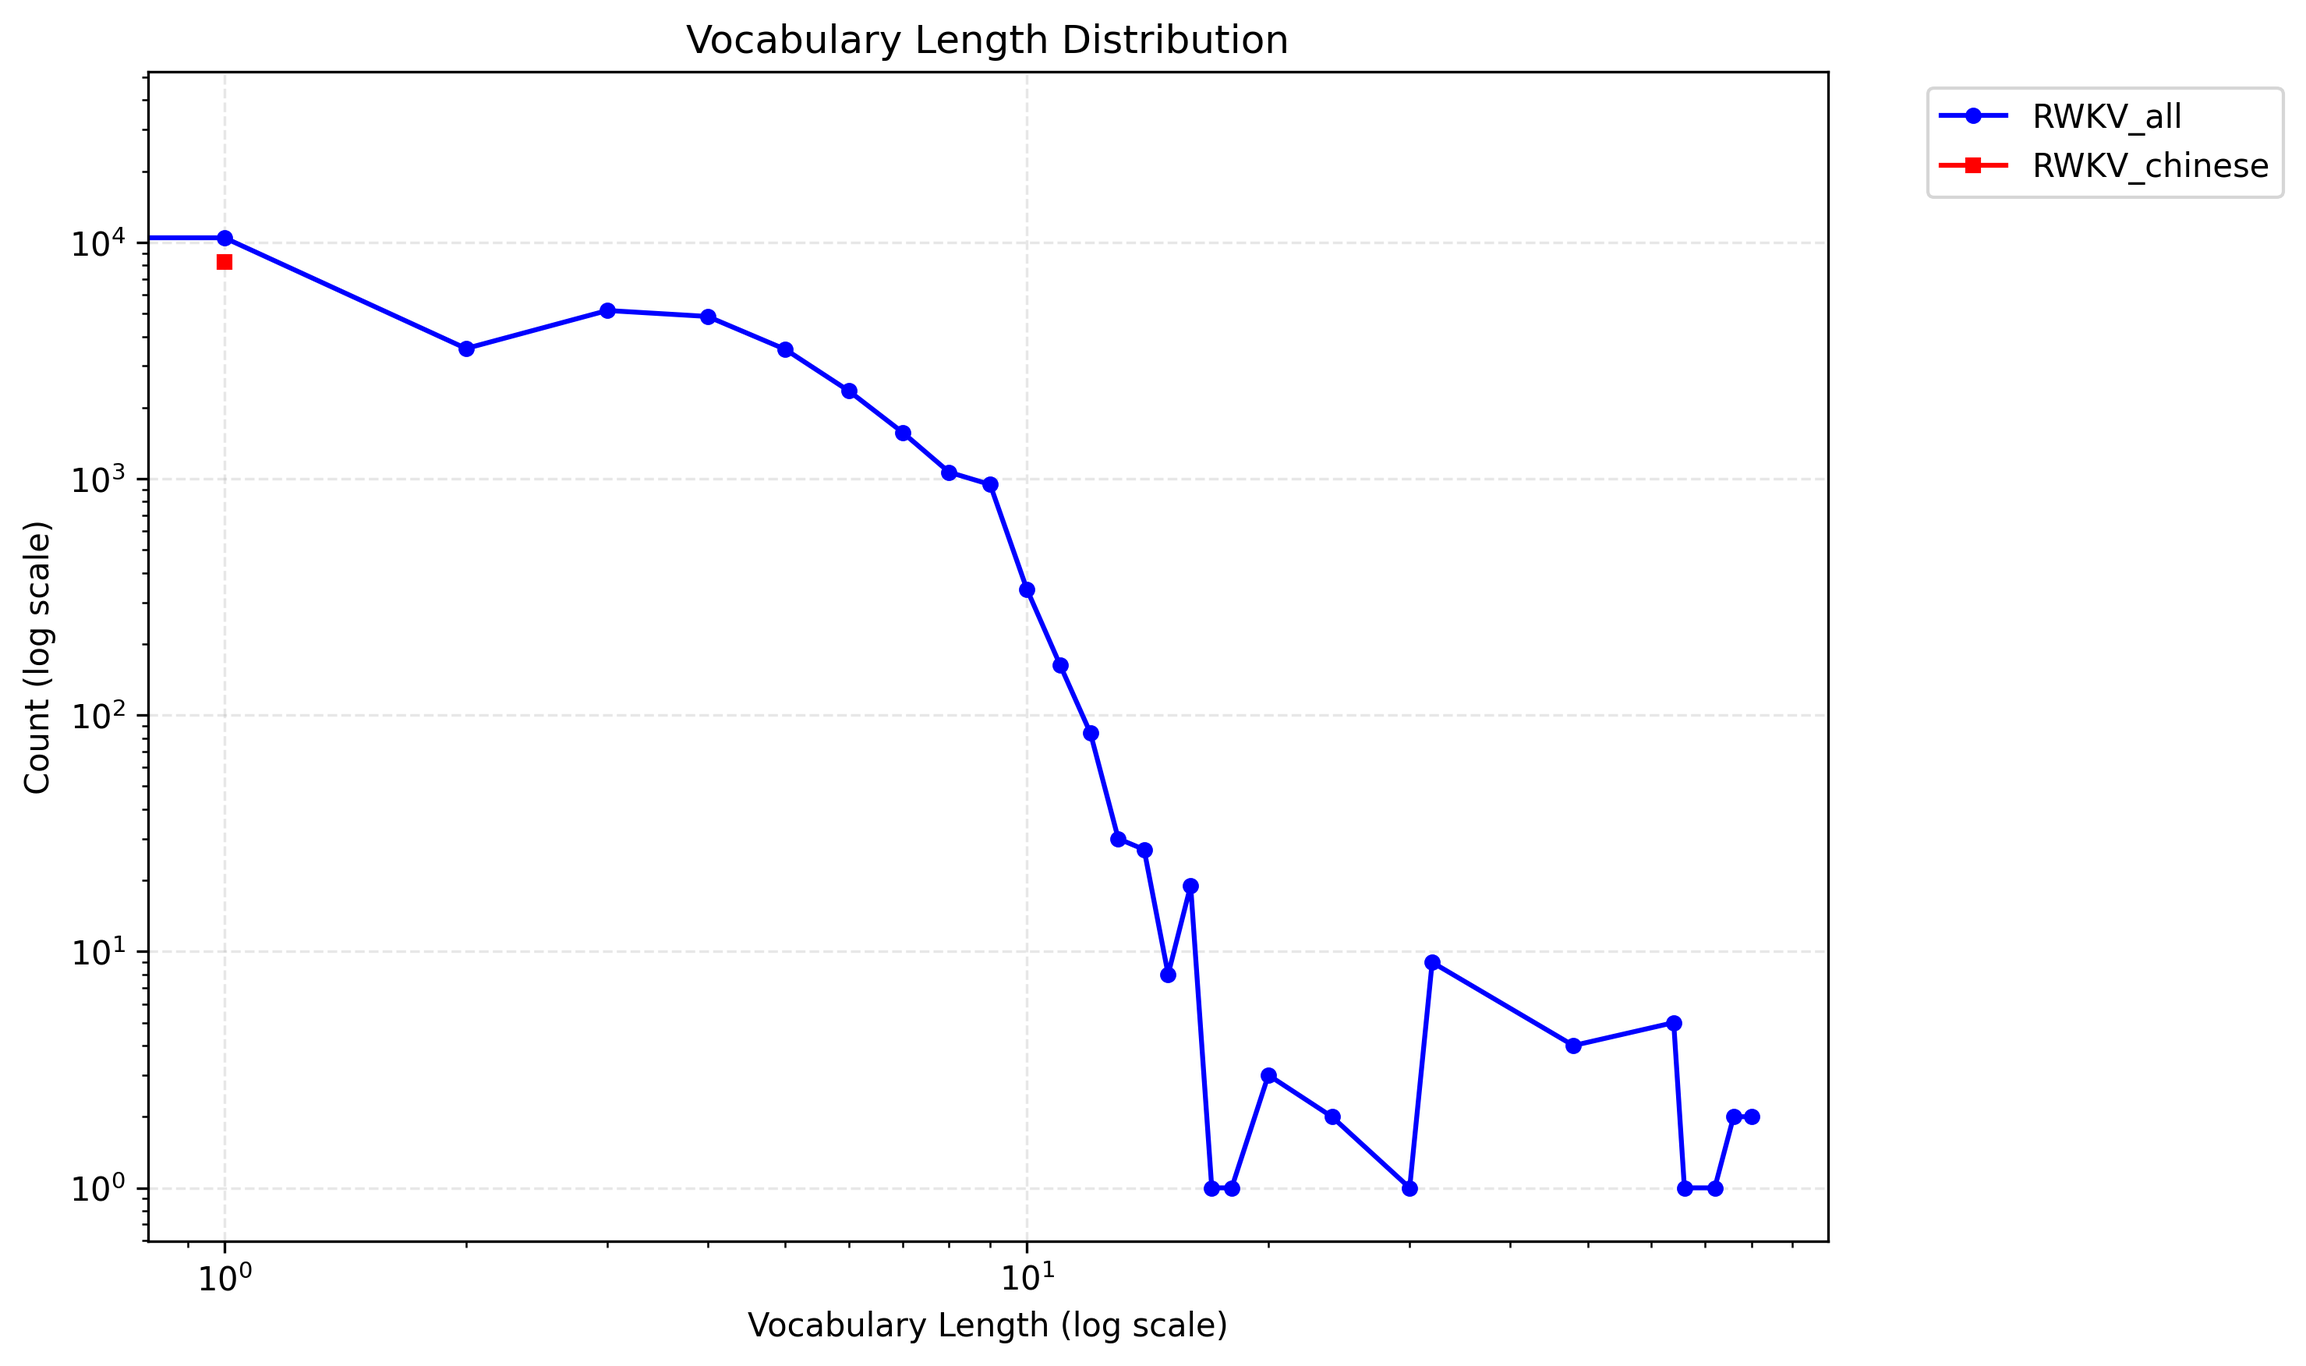
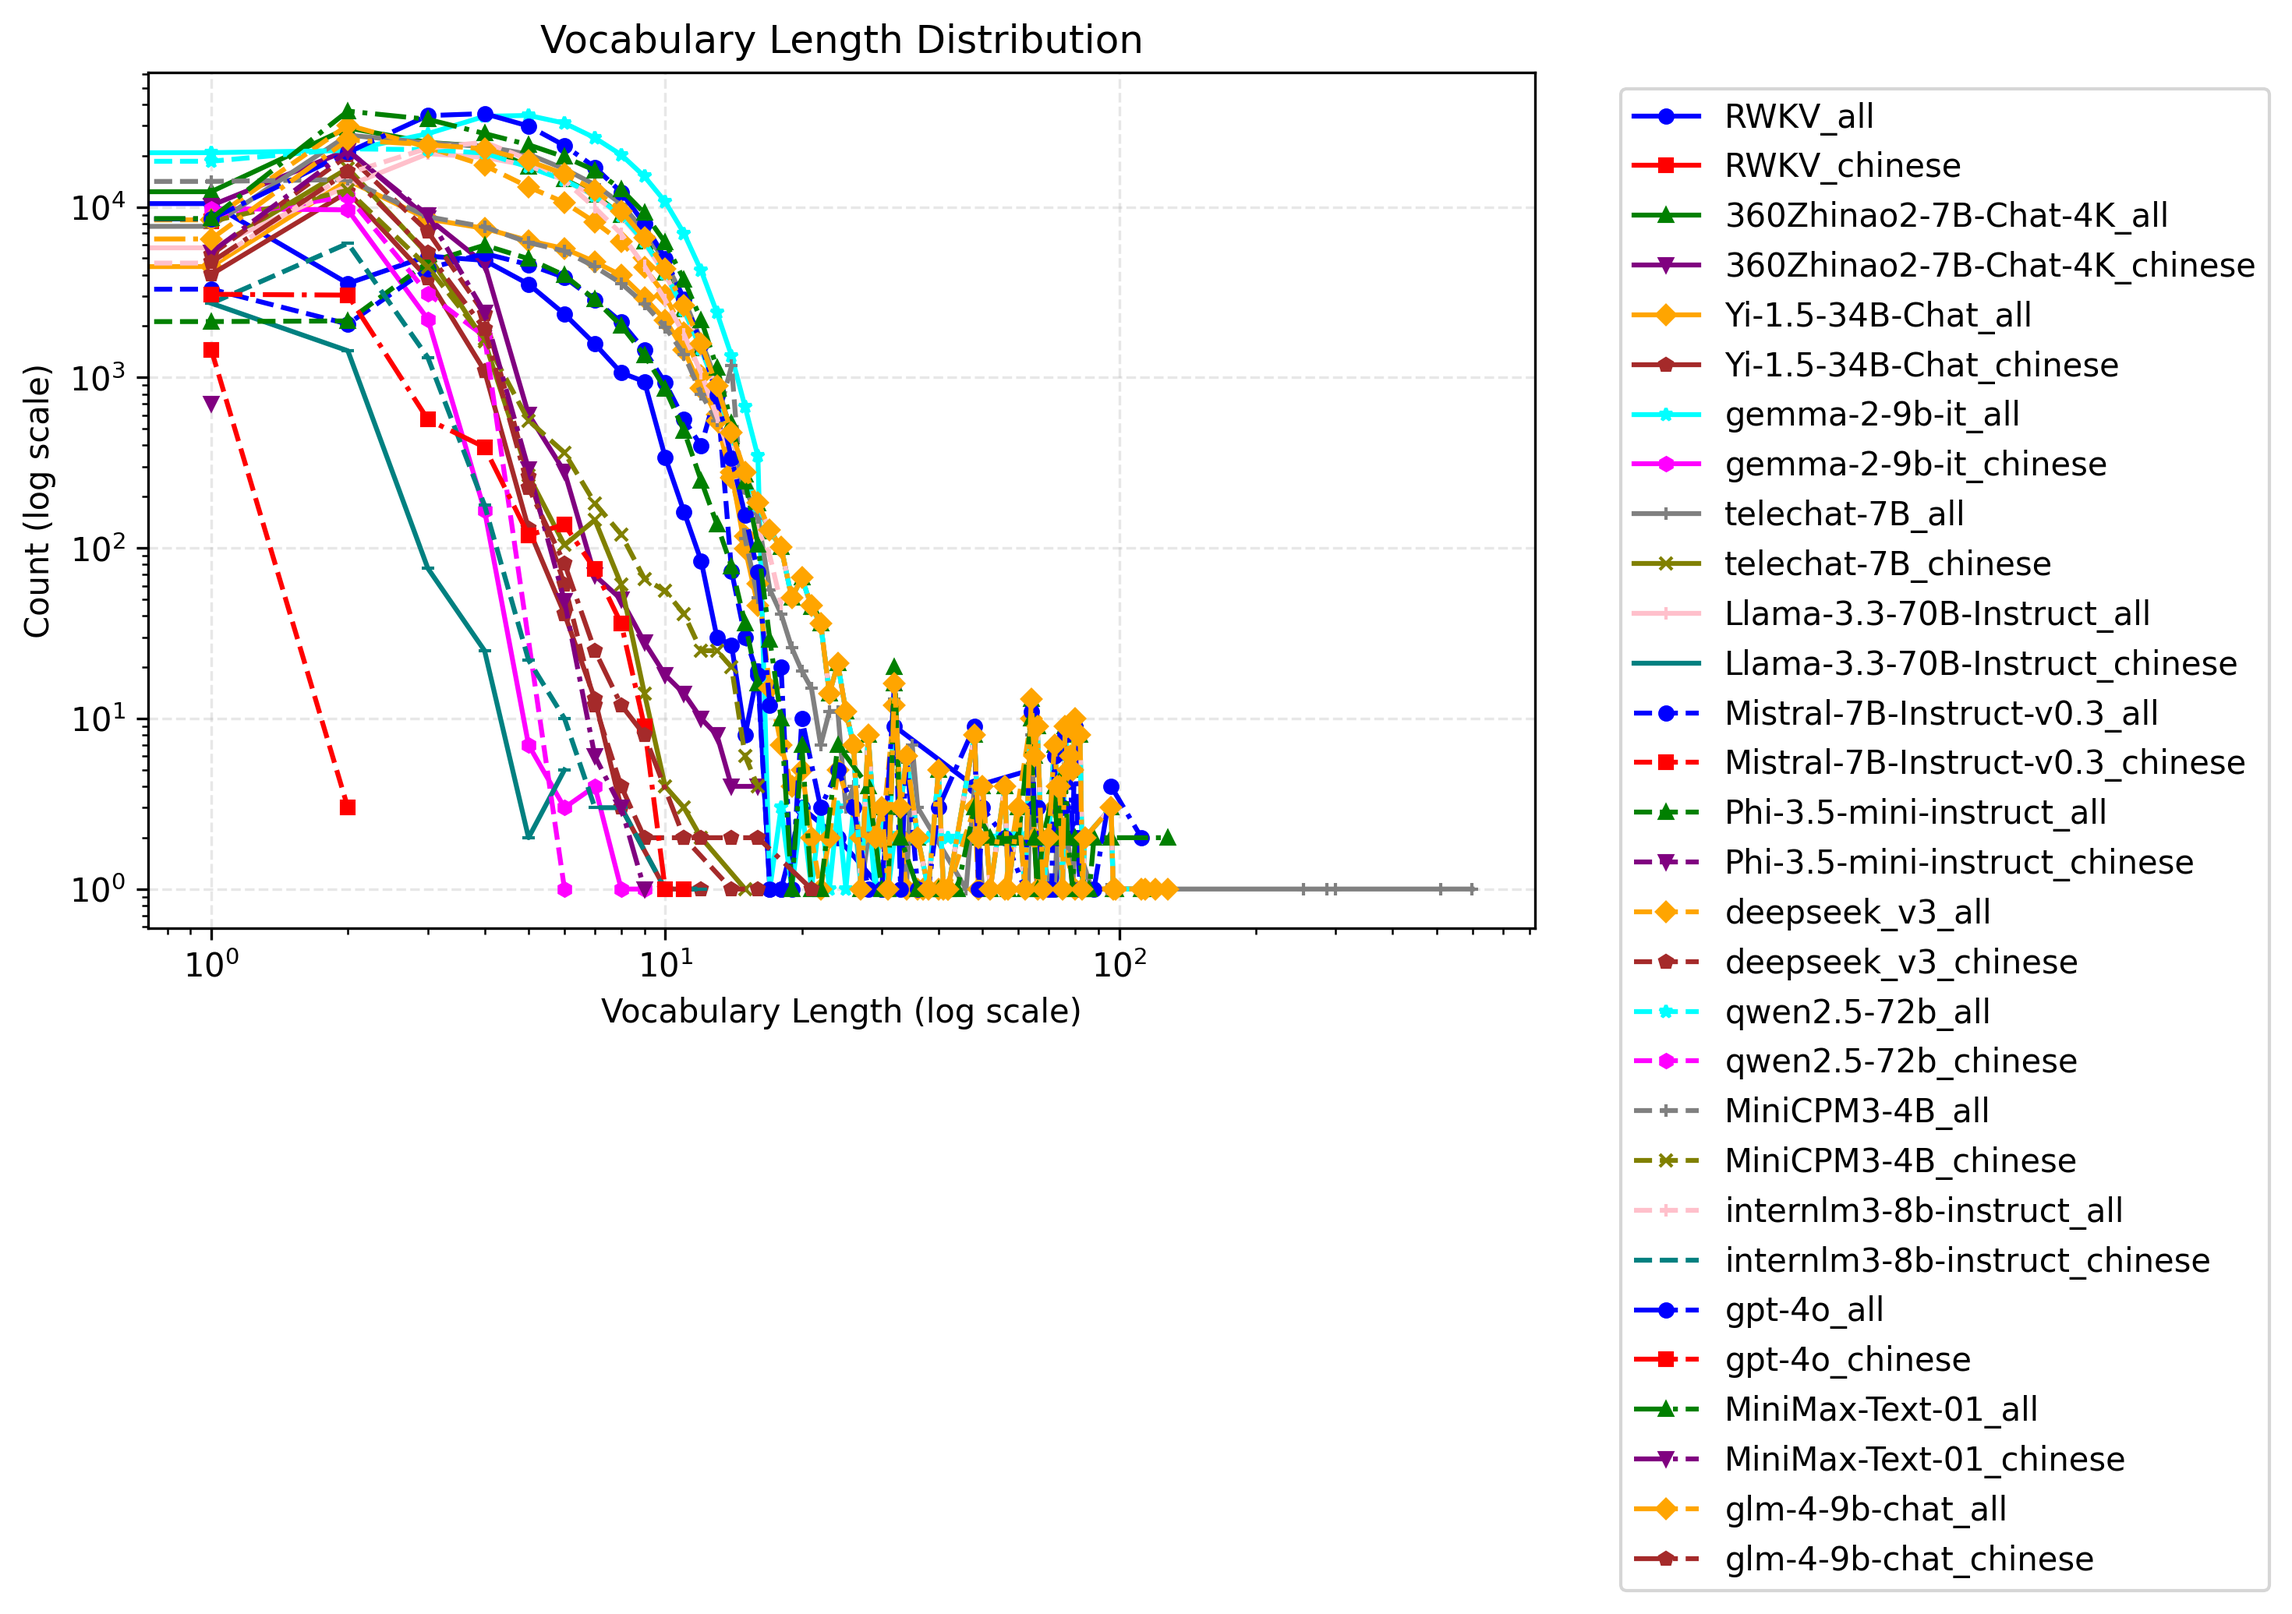
更新md和png

diff --git a/大模型词汇语言分布.md b/大模型词汇语言分布.md
@@ -2,29 +2,29 @@
 
 | Language | 360Zhinao2-7B-Chat-4K | Llama-3.3-70B-Instruct | MiniCPM3-4B | MiniMax-Text-01 | Mistral-7B-Instruct-v0.3 | Phi-3.5-mini-instruct | RWKV | Yi-1.5-34B-Chat | deepseek_v3 | gemma-2-9b-it | glm-4-9b-chat | gpt-4o | internlm3-8b-instruct | qwen2.5-72b | telechat-7B |
 |----------|---|---|---|---|---|---|---|---|---|---|---|---|---|---|---|
-| NULL | 13936 | 14782 | 15143 | 12028 | 8692 | 8864 | 3328 | 11027 | 9490 | 65009 | 11588 | 33598 | 30303 | 18171 | 16595 |
-| arabic | 1659 | 3820 | 49 | 6193 | 74 | 64 | 98 | 24 | 3222 | 6160 | 2030 | 8101 | 13126 | 3670 | 37 |
-| chinese | 46093 | 4265 | 28322 | 38420 | 1459 | 700 | 313 | 21356 | 35184 | 21762 | 28478 | 7449 | 10364 | 24966 | 29919 |
-| code | 8039 | 8044 | 1051 | 2807 | 75 | 54 | 56 | 1120 | 1226 | 2520 | 8041 | 4744 | 269 | 8039 | 785 |
-| control | 3489 | 3565 | 4 | 1809 | 1 | 1 | 196 | 9 | 1011 | 64 | 3489 | 3381 | 0 | 3488 | 790 |
-| digits | 10 | 1110 | 10 | 1110 | 10 | 10 | 2036 | 10 | 1110 | 10 | 541 | 1110 | 10 | 10 | 2619 |
-| english | 64949 | 65154 | 24835 | 83683 | 16434 | 13786 | 38588 | 25477 | 55530 | 90145 | 67207 | 88473 | 26858 | 63637 | 67721 |
-| french | 2981 | 2401 | 845 | 8687 | 872 | 1252 | 1195 | 871 | 2427 | 8421 | 3181 | 5772 | 1325 | 2574 | 9945 |
-| german | 3101 | 2413 | 701 | 3741 | 886 | 1474 | 992 | 727 | 2420 | 9632 | 3646 | 6646 | 5616 | 2470 | 2959 |
-| greek | 566 | 1387 | 147 | 138 | 62 | 65 | 184 | 28 | 625 | 1248 | 839 | 1510 | 79 | 137 | 195 |
-| hebrew | 286 | 290 | 15 | 243 | 38 | 36 | 30 | 4 | 712 | 1314 | 286 | 2597 | 14 | 3426 | 157 |
-| indonesian | 368 | 382 | 102 | 2049 | 74 | 72 | 134 | 99 | 541 | 2003 | 379 | 1069 | 245 | 342 | 3723 |
-| italian | 2066 | 1903 | 636 | 3498 | 629 | 824 | 879 | 686 | 1835 | 6378 | 2493 | 3596 | 1098 | 1865 | 3593 |
-| japanese | 1042 | 1231 | 186 | 12091 | 170 | 166 | 216 | 102 | 970 | 7338 | 1076 | 986 | 111 | 2215 | 368 |
-| korean | 1457 | 2258 | 94 | 4537 | 347 | 113 | 27 | 29 | 1132 | 2320 | 557 | 2385 | 6407 | 3483 | 360 |
-| malay | 95 | 108 | 27 | 654 | 23 | 21 | 33 | 23 | 178 | 684 | 101 | 357 | 113 | 89 | 1175 |
-| persian | 104 | 97 | 13 | 76 | 15 | 17 | 17 | 14 | 44 | 71 | 101 | 109 | 24 | 97 | 63 |
-| portuguese | 1117 | 976 | 264 | 4130 | 275 | 387 | 396 | 274 | 973 | 3836 | 1302 | 3269 | 650 | 1078 | 5029 |
-| russian | 2462 | 6739 | 233 | 4257 | 1793 | 3013 | 469 | 1237 | 5398 | 13418 | 9967 | 14473 | 16221 | 4348 | 961 |
-| serbian | 324 | 321 | 42 | 373 | 39 | 41 | 45 | 36 | 221 | 265 | 311 | 516 | 483 | 286 | 250 |
-| spanish | 2488 | 2009 | 554 | 8685 | 612 | 846 | 794 | 548 | 1961 | 8808 | 2867 | 5533 | 1116 | 2080 | 8948 |
-| thai | 58 | 1386 | 12 | 40 | 57 | 44 | 28 | 3 | 1247 | 1287 | 58 | 1561 | 9081 | 2570 | 48 |
-| turkish | 391 | 2122 | 126 | 518 | 100 | 118 | 157 | 257 | 290 | 1938 | 790 | 1714 | 325 | 1345 | 733 |
-| ukrainian | 113 | 115 | 7 | 133 | 8 | 7 | 8 | 8 | 63 | 49 | 116 | 130 | 22 | 116 | 111 |
-| vietnamese | 139 | 1122 | 22 | 100 | 23 | 25 | 35 | 23 | 190 | 1320 | 808 | 921 | 4709 | 1141 | 3051 |
-| Total | 157333 | 128000 | 73440 | 200000 | 32768 | 32000 | 50254 | 63992 | 128000 | 256000 | 150252 | 200000 | 128569 | 151643 | 160135 |
+| NULL | 13936 | 14782 | 15143 | 12028 | 8692 | 8864 | 34587 | 11027 | 9490 | 65009 | 11588 | 33598 | 30303 | 18171 | 16595 |
+| arabic | 1659 | 3820 | 49 | 6193 | 74 | 64 | 109 | 24 | 3222 | 6160 | 2030 | 8101 | 13126 | 3670 | 37 |
+| chinese | 46093 | 4265 | 28322 | 38420 | 1459 | 700 | 8244 | 21356 | 35184 | 21762 | 28478 | 7449 | 10364 | 24966 | 29919 |
+| code | 8039 | 8044 | 1051 | 2807 | 75 | 54 | 96 | 1120 | 1226 | 2520 | 8041 | 4744 | 269 | 8039 | 785 |
+| control | 3489 | 3565 | 4 | 1809 | 1 | 1 | 81 | 9 | 1011 | 64 | 3489 | 3381 | 0 | 3488 | 790 |
+| digits | 10 | 1110 | 10 | 1110 | 10 | 10 | 110 | 10 | 1110 | 10 | 541 | 1110 | 10 | 10 | 2619 |
+| english | 64949 | 65154 | 24835 | 83683 | 16434 | 13786 | 16045 | 25477 | 55530 | 90145 | 67207 | 88473 | 26858 | 63637 | 67721 |
+| french | 2981 | 2401 | 845 | 8687 | 872 | 1252 | 676 | 871 | 2427 | 8421 | 3181 | 5772 | 1325 | 2574 | 9945 |
+| german | 3101 | 2413 | 701 | 3741 | 886 | 1474 | 562 | 727 | 2420 | 9632 | 3646 | 6646 | 5616 | 2470 | 2959 |
+| greek | 566 | 1387 | 147 | 138 | 62 | 65 | 118 | 28 | 625 | 1248 | 839 | 1510 | 79 | 137 | 195 |
+| hebrew | 286 | 290 | 15 | 243 | 38 | 36 | 40 | 4 | 712 | 1314 | 286 | 2597 | 14 | 3426 | 157 |
+| indonesian | 368 | 382 | 102 | 2049 | 74 | 72 | 78 | 99 | 541 | 2003 | 379 | 1069 | 245 | 342 | 3723 |
+| italian | 2066 | 1903 | 636 | 3498 | 629 | 824 | 433 | 686 | 1835 | 6378 | 2493 | 3596 | 1098 | 1865 | 3593 |
+| japanese | 1042 | 1231 | 186 | 12091 | 170 | 166 | 486 | 102 | 970 | 7338 | 1076 | 986 | 111 | 2215 | 368 |
+| korean | 1457 | 2258 | 94 | 4537 | 347 | 113 | 1044 | 29 | 1132 | 2320 | 557 | 2385 | 6407 | 3483 | 360 |
+| malay | 95 | 108 | 27 | 654 | 23 | 21 | 22 | 23 | 178 | 684 | 101 | 357 | 113 | 89 | 1175 |
+| persian | 104 | 97 | 13 | 76 | 15 | 17 | 12 | 14 | 44 | 71 | 101 | 109 | 24 | 97 | 63 |
+| portuguese | 1117 | 976 | 264 | 4130 | 275 | 387 | 269 | 274 | 973 | 3836 | 1302 | 3269 | 650 | 1078 | 5029 |
+| russian | 2462 | 6739 | 233 | 4257 | 1793 | 3013 | 1702 | 1237 | 5398 | 13418 | 9967 | 14473 | 16221 | 4348 | 961 |
+| serbian | 324 | 321 | 42 | 373 | 39 | 41 | 32 | 36 | 221 | 265 | 311 | 516 | 483 | 286 | 250 |
+| spanish | 2488 | 2009 | 554 | 8685 | 612 | 846 | 469 | 548 | 1961 | 8808 | 2867 | 5533 | 1116 | 2080 | 8948 |
+| thai | 58 | 1386 | 12 | 40 | 57 | 44 | 58 | 3 | 1247 | 1287 | 58 | 1561 | 9081 | 2570 | 48 |
+| turkish | 391 | 2122 | 126 | 518 | 100 | 118 | 158 | 257 | 290 | 1938 | 790 | 1714 | 325 | 1345 | 733 |
+| ukrainian | 113 | 115 | 7 | 133 | 8 | 7 | 7 | 8 | 63 | 49 | 116 | 130 | 22 | 116 | 111 |
+| vietnamese | 139 | 1122 | 22 | 100 | 23 | 25 | 91 | 23 | 190 | 1320 | 808 | 921 | 4709 | 1141 | 3051 |
+| Total | 157333 | 128000 | 73440 | 200000 | 32768 | 32000 | 65529 | 63992 | 128000 | 256000 | 150252 | 200000 | 128569 | 151643 | 160135 |
